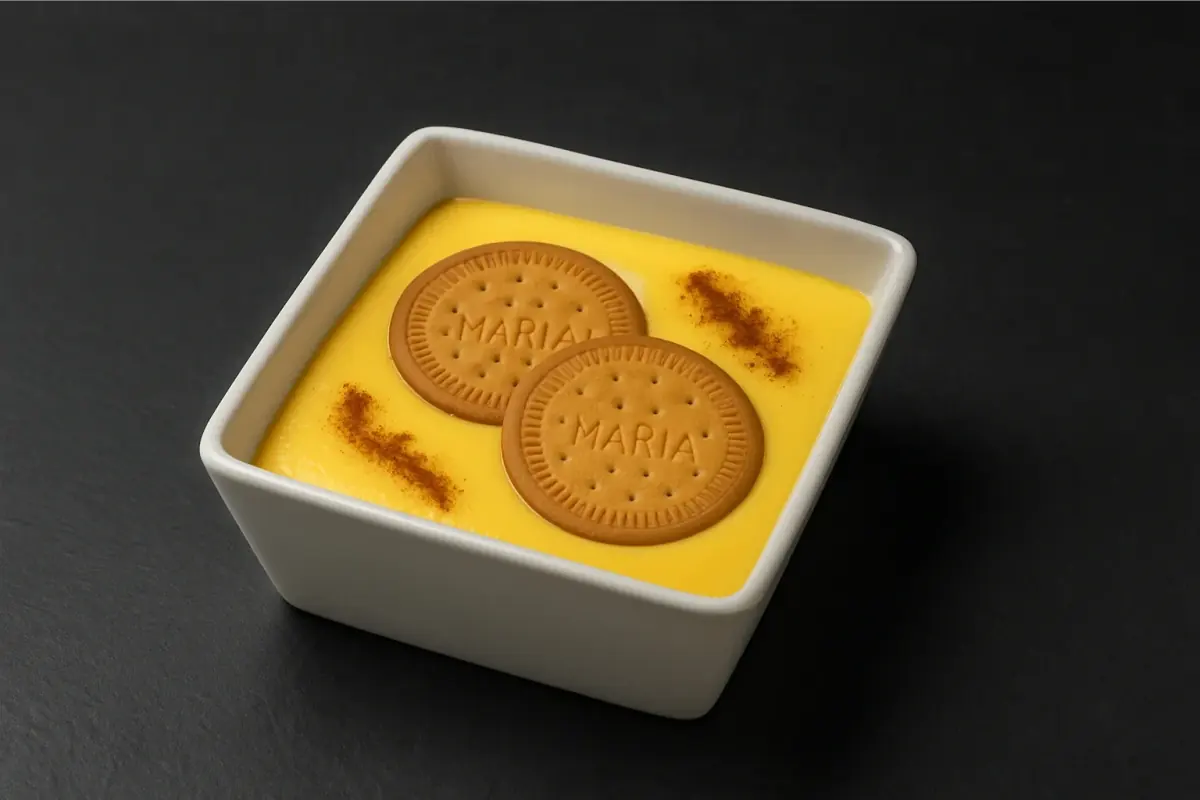
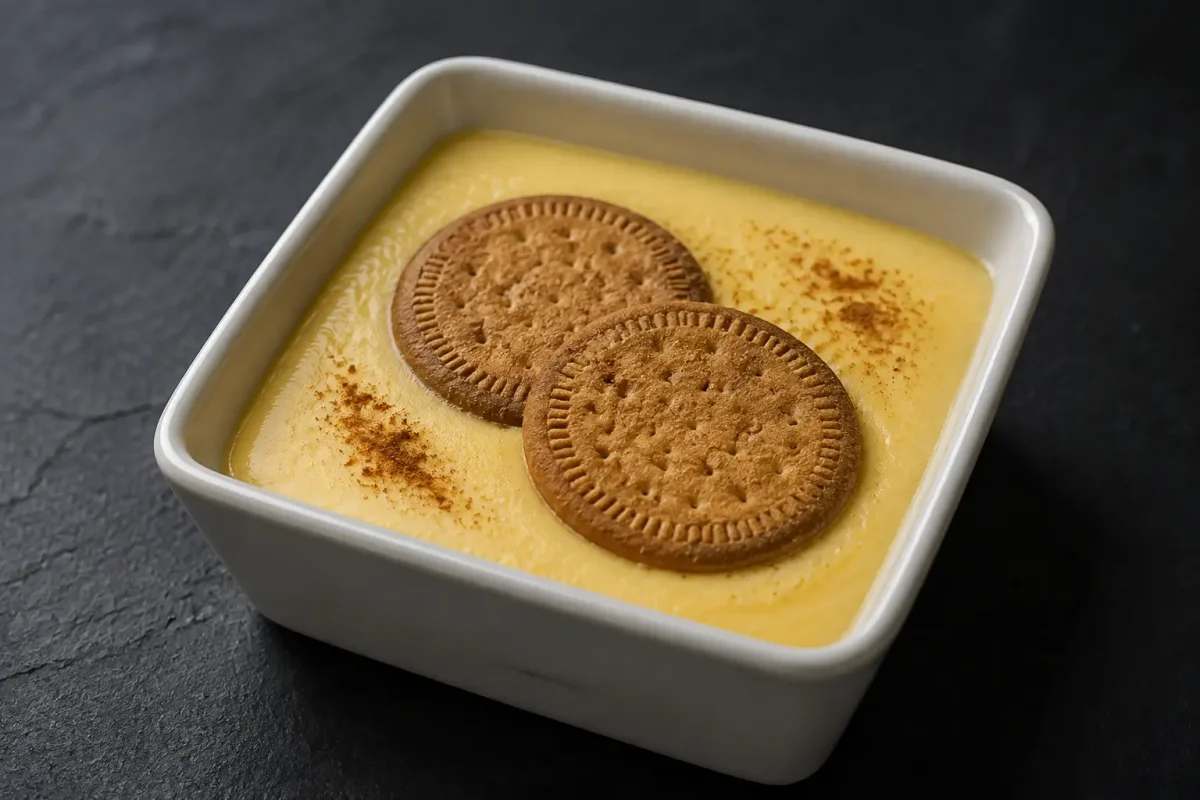
Sustituye 7 fotos de plato por las nuevas
Fotos nuevas para costillas, filete de pollo empanado, albondigas, natillas,
tallarines con verduras, croquetas y patatas panaderas. Todas a 1200 px de
ancho y calidad 85 en webp (la de costillas a 82 porque tiene mucho detalle y
se iba a 202 KB), manteniendo el 3:2 del resto de la carta.

Tres originales no se llamaban igual que el archivo de la web:
filetes-empanados -> filete-pollo, tallarines -> tallarines-verduras y
croquetas-jamon -> croquetas. Comprobado que el contenido de cada foto
corresponde con la descripcion del plato antes de colocarla.

Los originales quedan en originales/, con la tabla de equivalencias en el
LEEME para poder regenerarlas.

diff --git a/originales/LEEME.md b/originales/LEEME.md
@@ -9,3 +9,16 @@ poder regenerarlas si hace falta otro tamaño o formato.
 - `new-favicon.png` — origen de los iconos del sitio.
   Regenerar con: `node scripts/make-favicon.mjs originales/new-favicon.png`
 - `paella-valenciana.png` — origen de `src/assets/products/paella-valenciana.webp`
+
+Fotos de plato (agosto 2026). El nombre del original no siempre coincide con
+el del archivo que usa la web:
+
+| Original                 | Va a `src/assets/products/` |
+| ------------------------ | --------------------------- |
+| `costillas.webp`         | `costillas.webp`            |
+| `filetes-empanados.webp` | `filete-pollo.webp`         |
+| `albondigas.webp`        | `albondigas.webp`           |
+| `natillas.webp`          | `natillas.webp`             |
+| `tallarines.webp`        | `tallarines-verduras.webp`  |
+| `croquetas-jamon.webp`   | `croquetas.webp`            |
+| `panaderas.webp`         | `panaderas.webp`            |
